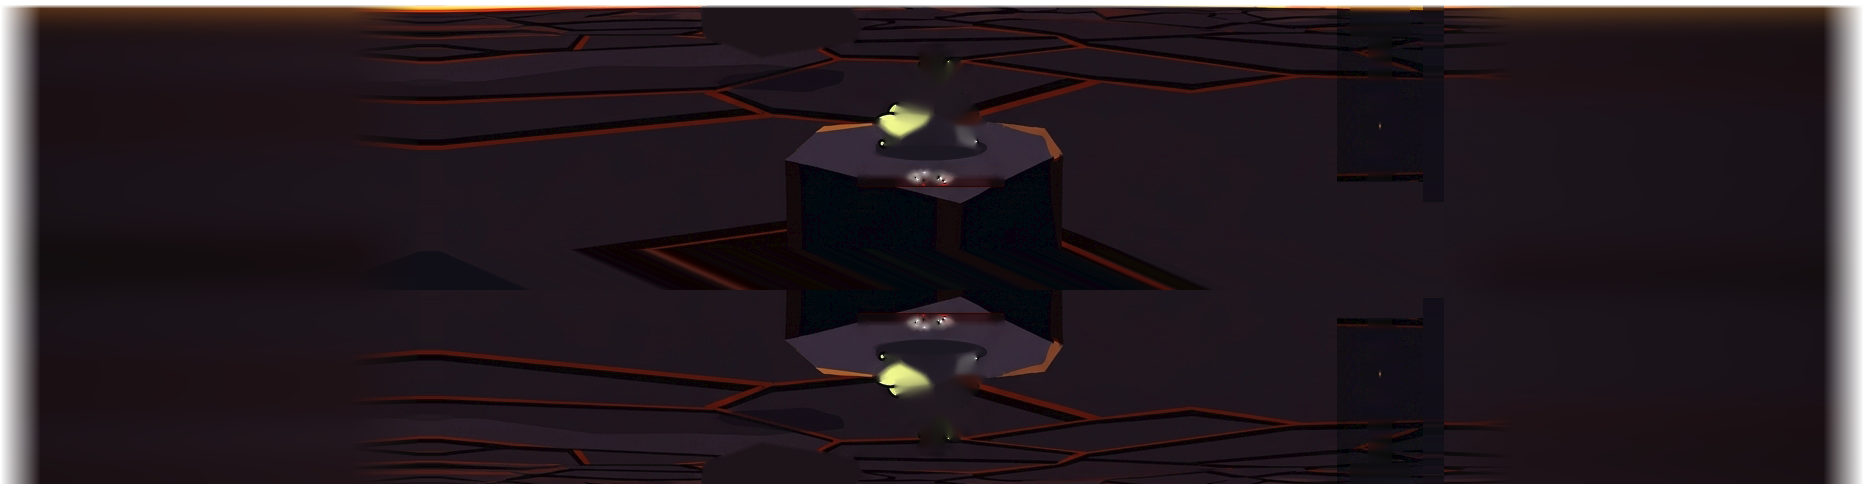
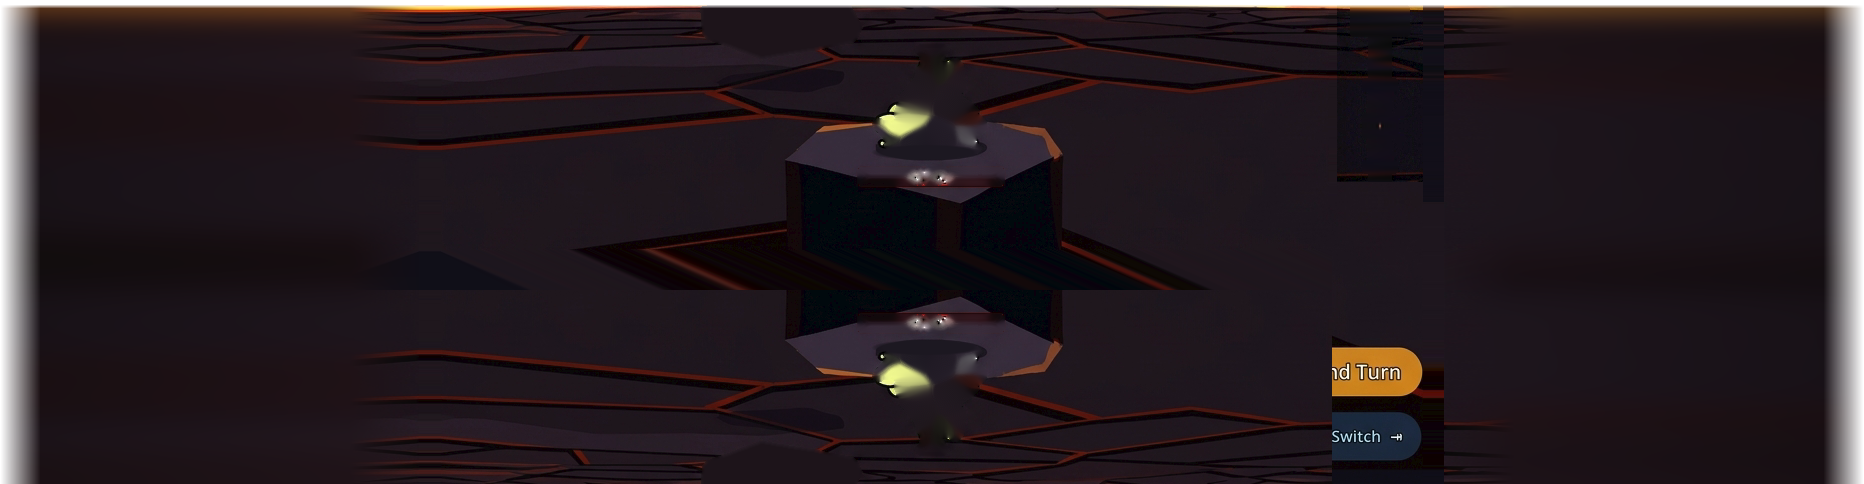
builder: floor right of End Turn keeps TARGET's own rows (no seam); under-gauge item still open
Claude-Session: https://claude.ai/code/session_01SVKwRE7XjZAQ44YbnjkWtX

Changed region(s): [[0.7157, 0.7128, 0.7779, 0.9607], [0.7157, 0.6508, 0.7468, 0.6818]]

diff --git a/tools/floor_cut.py b/tools/floor_cut.py
@@ -45,6 +45,7 @@ BAR = (428, 692, 596, 726)    # box round its HP bar
 SHADOW = ((507.0, 692.0), (56.0, 8.0))   # centre, radii in TARGET px
 CARDS_ROW = 790           # TARGET row the hand starts at: below it, rows repeat
 CARRY = 40                # rows under it whose seams are carried on, not mirrored
+KEEP_RIGHT_X = 912      # TARGET x from which rows below CARDS_ROW stay TARGET's own (0: off)
 SHEAR = 2.3               # px right per row the carried seams slide
 GROW = 4
 GAUGE_MIRROR = True   # the floor under the climb gauge mirrored in from its left, not inpainted
@@ -156,6 +157,11 @@ def build() -> None:
         for y in range(band, min(H, band + CARRY)):
             for k in range(3):
                 out[y, :, k] = np.interp(xs - SHEAR, xs, out[y - 1, :, k])
+    # Right of End Turn and Switch TARGET's floor below the hand row is its
+    # own: mirrored and sheared, a dark wedge of it landed as a seam above
+    # End Turn (grader run 15, "Right of and under the climb gauge").
+    if KEEP_RIGHT_X:
+        out[band:, KEEP_RIGHT_X:] = img[band:, KEEP_RIGHT_X:]
     out[:, :EDGE] = out[:, EDGE:EDGE + 1]
     out[:, W - EDGE:] = out[:, W - EDGE - 1:W - EDGE]
     # Mirror only clean floor: left of the pedestal (x < 356) and between it

diff --git a/design/plan/BUILDER-QUEUE.md b/design/plan/BUILDER-QUEUE.md
@@ -202,7 +202,7 @@ run failed.
       ![[agents/frames/builder/2026-10-09-gaugepanel-after.png|420]] ^climb-gauge-panel-see-through-the-lava-s
 
 - [ ] **Right of and under the climb gauge: lava and floor, not a dark box.**
-      Next pass: grader 2026-10-09 run 15 R1 FAIL: under the panel's foot MET (the streaks and dark blocks there were TARGET's panel border rows carried down; now TARGET's floor below it mirrored up); right strip NOT MET. Measured: square x708-720 is TARGET.png's own dark picture frame (x>1000 in TARGET px), dark over the sky (14,11,24) and dimming the lava to (82,29,16), where the game carries the lava on at (183,50,0); and a dark seam above End Turn (square y~597-605) is in both frames. FIX: decide whether the square's right 12 px carry TARGET's frame (dim the backdrop and floor columns there to TARGET's), then the seam.
+      Next pass: grader 2026-10-09 run 15 R1 FAIL: under the panel's foot MET; the seam above End Turn since removed (floor_cut KEEP_RIGHT_X: TARGET's own floor rows right of the buttons, below-gauge error 4.41 -> 2.49), not yet graded. Right strip NOT MET: square x708-720 is TARGET.png's own dark picture frame (TARGET x>1000), dark over the sky (14,11,24) and dimming the lava to (82,29,16), where the game carries the lava on at (183,50,0). FIX: decide whether the square's right 12 px carry TARGET's frame (dim the backdrop and floor columns there to TARGET's).
       Between the gauge panel and the square's right edge (square ~x707-720, y215-420) and under the panel's foot (~x645-720, y510-600) the game shows a flat dark strip and block; TARGET shows its lava band, glow and floor carrying on there.
       **Done when** the `--square` pair shows no visible difference right of and below the climb gauge.
       Test: state=3d beast=cinder_jackal ^right-of-and-under-the-climb-gauge-lava

diff --git a/design/plan/BUILDER-QUEUE-NOTES.md b/design/plan/BUILDER-QUEUE-NOTES.md
@@ -2561,3 +2561,4 @@ Found by measuring, not by eye: the jackal is TARGET's own pixels, so every crac
 - Grader: R1 FAIL (right strip; seam above End Turn, in both frames), under-panel MET. VERDICT: FAIL.
 - Frames: ![[agents/frames/builder/2026-10-09-gaugepanel-after.png|420]] ![[agents/frames/builder/2026-10-09-undergauge-after.png|420]]
 - Meshy: 0 credits.
+- **Seam above End Turn**, after R1: floor_cut mirrored and sheared the rows below CARDS_ROW at every x, and a dark wedge of TARGET's floor landed above End Turn. Right of the buttons (TARGET x >= 912, `KEEP_RIGHT_X`) the rows stay TARGET's own. Below-gauge error 3.92 -> 2.49. Not regraded this run.
